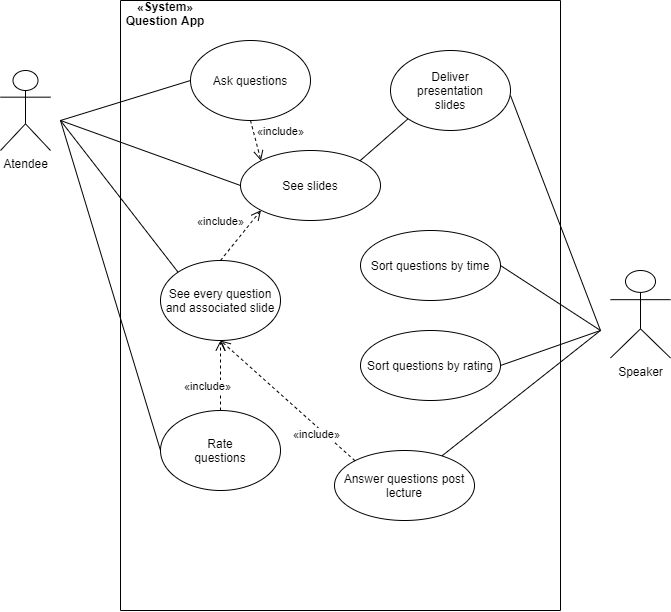
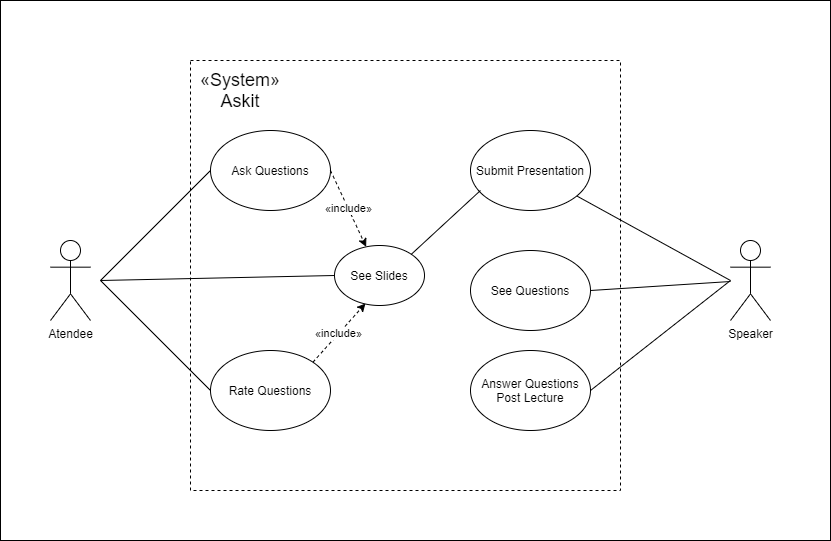
updated use cases

diff --git a/README.md b/README.md
@@ -24,7 +24,35 @@ From now on you can attend any conference knowing that only the most pertinent q
 ### Use case diagram
 ![use case diagram](./docs/images/use_case_diagram.png "Use Case Diagram")
 
+#### Ask Questions
+**Actor**: Atendee  
+**Description**: User can post questions regarding the lecture he is attending. He can also mark the number of the slide relevant to his question.  
+**Normal Flow**: The user writes a question, selects the slide number and then submits the question.
 
+#### See Slides
+**Actor**: Atendee  
+**Description**: User can download the presentation if it has been made available by the speaker.  
+**Normal Flow**: User downloads the presentation file.
+
+#### Rate Questions
+**Actor**: Atendee  
+**Description**: User sees all questions in a list and may choose to rate any question.
+**Normal Flow**: User scrolls through the list and votes on the questions he desires.
+
+#### Submit Presentation
+**Actor**: Speaker  
+**Description**: User may choose a file from his device and upload it into the app.
+**Normal Flow**: User presses upload lecture, and navigates through his device to select the file to upload.
+
+#### See Questions
+**Actor**: Speaker  
+**Description**: User sees the list of questions ordered by their current rating.
+**Normal Flow**: User can scroll through the list of submitted questions.
+
+#### Answer Questions Post Lecture
+**Actor**: Speaker  
+**Description**: After the lecture has ended, the user may submit an answer to questions that there was no time for. 
+**Normal Flow**: User selects one question and may submit an answer.
 
 ### User stories
 
